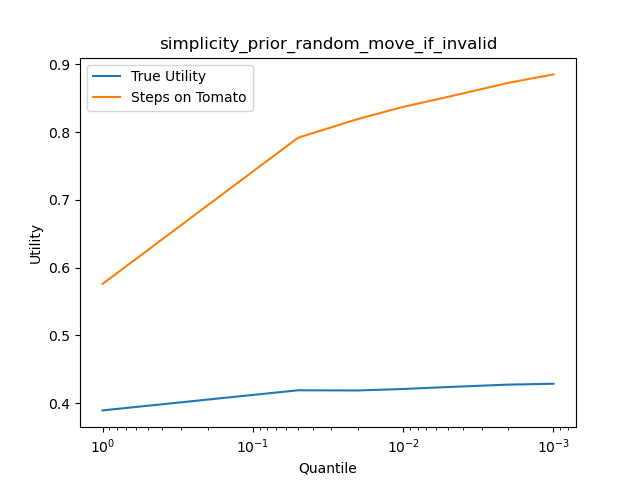
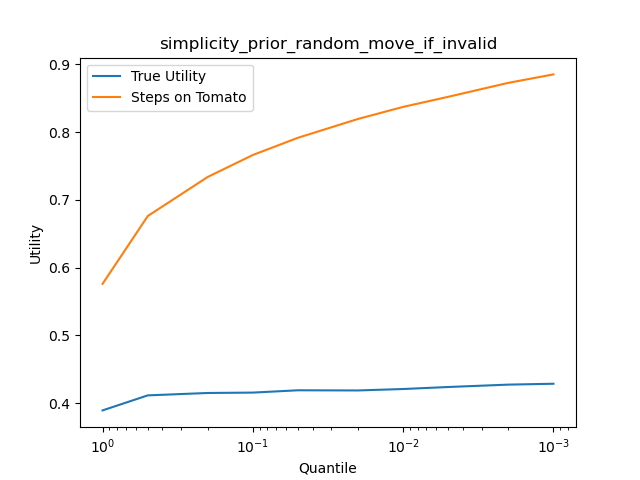
Added heatmaps of double quantilization

diff --git a/script.py b/script.py
@@ -75,7 +75,7 @@ def plot_single_policy_datapoints(
 
     quantiles = [1] + [
         x * 10**(-i)
-        for i in range(1,ten_datapoint_quantile_log)
+        for i in range(ten_datapoint_quantile_log)
         for x in [0.5, 0.2, 0.1]
     ]
 
@@ -131,49 +131,6 @@ def plot_single_policy_datapoints(
     df["misspecified_reward_normalized"] = ((df["misspecified_reward"] - np.mean(df["misspecified_reward"])) / np.std(df["misspecified_reward"]))
     df["steps_on_tomato_normalized"] = ((df["steps_on_tomato"] - np.mean(df["steps_on_tomato"])) / np.std(df["steps_on_tomato"]))
 
-    """
-    sqrt_kl_divergences = []
-    true_utilities = []
-    names = []
-
-    for weight in weight_values:
-        sqrt_kl_divergences_for_weight = []
-        true_utilities_for_weight = []
-
-        for b in np.arange(0, 100, 0.2):
-            df["weights"] = 1
-
-            b_misspecified_reward = b * weight
-            b_steps_on_tomato = b * (1 - weight)
-
-            df["weights"] *= np.exp(b_misspecified_reward * df["misspecified_reward_normalized"])
-            df["weights"] *= np.exp(b_steps_on_tomato * df["steps_on_tomato_normalized"])
-
-            df["weights"] = df["weights"] / np.sum(df["weights"])
-
-            kl_divergence = np.sum(df["weights"] * np.log(df["weights"])) + np.log(len(df))
-
-            sqrt_kl_divergences_for_weight.append(np.sqrt(kl_divergence))
-            true_utilities_for_weight.append(np.sum(df["true_utility"] * df["weights"]))
-
-            if kl_divergence > 10:
-                break
-
-        sqrt_kl_divergences.append(sqrt_kl_divergences_for_weight)
-        true_utilities.append(true_utilities_for_weight)
-        names.append(f"{weight*10:.0f}:{10-weight*10:.0f}")
-
-
-    for i in range(len(weight_values)):
-        plt.plot(sqrt_kl_divergences[i], true_utilities[i], label=names[i], c=plt.cm.viridis(weight_values[i]))
-    plt.xlabel("Sqrt KL Divergence")
-    plt.ylabel("True Utility")
-    plt.legend()
-    plt.title(title)
-    plt.savefig(f"{save_path}/{title}/sqrt_kl_divergences.png")
-    plt.clf()
-    """
-
     true_utilities = []
     names = []
 
@@ -211,6 +168,27 @@ def plot_single_policy_datapoints(
     plt.savefig(f"{save_path}/{title}/mixed_quantilization.png", bbox_inches="tight")
     plt.clf()
 
+    true_utilities = np.zeros((len(quantiles), len(quantiles)))
+    for tomato_q_index, tomato_q in enumerate(quantiles):
+        for reward_q_index, reward_q in enumerate(quantiles):
+            df_sorted = df.sort_values(by="misspecified_reward", ascending=False)
+            df_quantilized = df_sorted.iloc[:int(reward_q * len(df))]
+            df_quantilized_sorted = df_quantilized.sort_values(by="steps_on_tomato", ascending=False)
+            df_twice_quantilized = df_quantilized_sorted.iloc[:int(tomato_q * len(df_quantilized))]
+            if len(df_twice_quantilized) >= 10:
+                true_utilities[reward_q_index, tomato_q_index] = df_twice_quantilized["true_utility"].mean()
+            else:
+                true_utilities[reward_q_index, tomato_q_index] = np.nan
+
+    plt.imshow(true_utilities[::-1], cmap=plt.cm.magma, aspect="auto")
+    plt.xlabel("Tomato Steps Quantile")
+    plt.xticks(range(len(quantiles)), [f"{q:.1g}" for q in quantiles])
+    plt.ylabel("Misspecified Reward Quantile")
+    plt.yticks(range(len(quantiles)), [f"{q:.1g}" for q in quantiles[::-1]])
+    plt.title(f"{title} - True Utility Heatmap")
+    plt.colorbar()
+    plt.savefig(f"{save_path}/{title}/true_utility_heatmap.png")
+    plt.clf()
 
 def save_policy_datapoints(
         datapoints_count: int = 10000,
